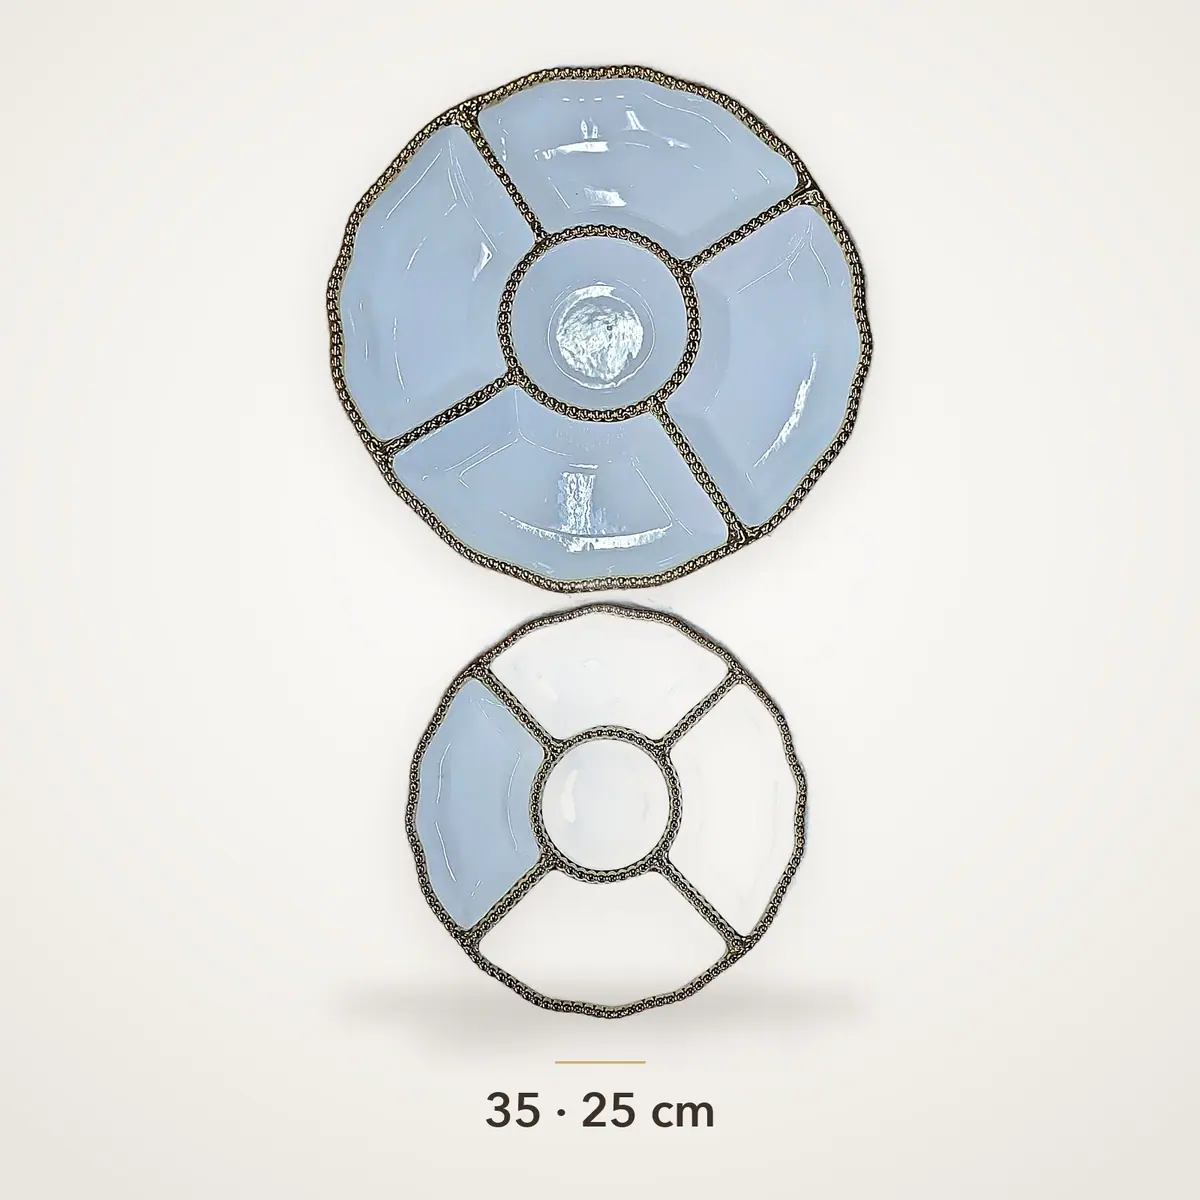
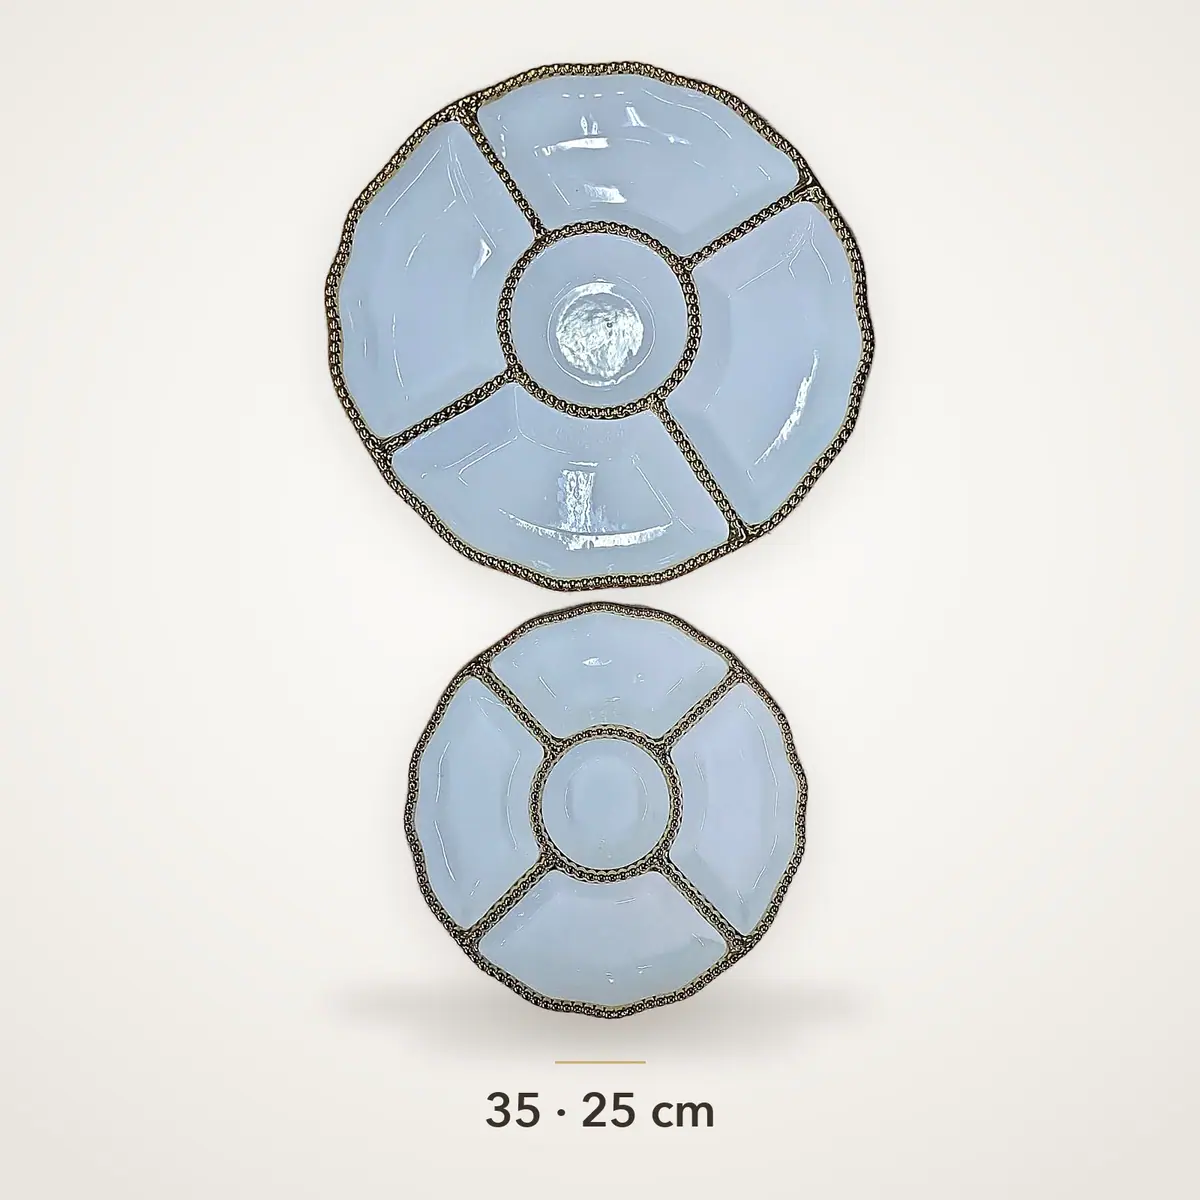
Restyle Zorof menu as buttons, rename categories, fix divided-dish photo
- Group tabs are now separate buttons with icons and a gold active state;
  category chips are more solid with a larger tap area.
- New Dari labels for three serving categories (with matching German),
  and آجیلخوری renamed to میوهدانی in product names.
- Re-cut photo of the round divided dishes (35 · 25 cm), which had
  see-through compartments.

diff --git a/data/zorof.ts b/data/zorof.ts
@@ -59,9 +59,9 @@ export const ZOROF_GROUPS: ZorofGroup[] = [
 
 // URL value for each category, e.g. /zorof?kategorie=tassen
 export const ZOROF_CATEGORIES: Record<ZorofCategory, { slug: string; label: Localized }> = {
-  PLATTERS: { slug: "servierplatten", label: { fa: "دیس و ظرف سرو", de: "Servierplatten" } },
-  SNACK: { slug: "snackschalen", label: { fa: "آجیلخوری و شیرینیخوری", de: "Snack- & Dessertschalen" } },
-  STANDS: { slug: "etageren", label: { fa: "طبقاتی و پایهدار", de: "Etageren & Ständer" } },
+  PLATTERS: { slug: "servierplatten", label: { fa: "غوریها و ظرفهای پذیرایی", de: "Servierplatten & Schalen" } },
+  SNACK: { slug: "snackschalen", label: { fa: "ظرفهای میوهٔ خشک و شیرینی", de: "Nuss- & Süßigkeitenschalen" } },
+  STANDS: { slug: "etageren", label: { fa: "ظرفهای چندطبقه و پایهدار", de: "Etageren & Schalen mit Fuß" } },
   TRAYS: { slug: "tabletts", label: { fa: "سینی", de: "Tabletts" } },
   DINNER_SETS: { slug: "tafelservice", label: { fa: "سرویس غذاخوری", de: "Tafelservice" } },
   PLATES: { slug: "teller", label: { fa: "بشقاب و کاسه", de: "Teller & Schalen" } },
@@ -163,9 +163,9 @@ export const zorofProducts: ZorofProduct[] = [
   product("bonbondose-gold-mit-deckel-124", 'SNACK', "Bonbondose gold mit Deckel", "شکلاتخوری طلایی دربدار", ["01.webp"]),
   product("teller-mit-glashaube-24-cm-125", 'SNACK', "Teller mit Glashaube 24 cm", "بشقاب با درب شیشهای ۲۴ سانت", ["01.webp"], ["24 cm"]),
   product("glasschalen-spiralform-37-19-cm-145", 'SNACK', "Glasschalen Spiralform 37/19 cm", "ظرف شیشهای مارپیچ ۳۷/۱۹ سانت", ["01.webp"], ["37 × 19 cm"]),
-  product("glas-snackschale-geteilt-gold-silber-150", 'SNACK', "Glas-Snackschale geteilt, Gold/Silber", "آجیلخوری شیشهای طلایی/نقرهای", ["01.webp", "02.webp"]),
-  product("snackplatte-5-fach-geteilt-155", 'SNACK', "Snackplatte 5-fach geteilt", "آجیلخوری پنج خانه", ["01.webp", "02.webp"]),
-  product("snackplatte-geteilt-31-cm-238", 'SNACK', "Snackplatte geteilt 31 cm", "آجیلخوری چند خانه ۳۱ سانت", ["01.webp"], ["31 cm"]),
+  product("glas-snackschale-geteilt-gold-silber-150", 'SNACK', "Glas-Snackschale geteilt, Gold/Silber", "میوهدانی شیشهای طلایی/نقرهای", ["01.webp", "02.webp"]),
+  product("snackplatte-5-fach-geteilt-155", 'SNACK', "Snackplatte 5-fach geteilt", "میوهدانی پنج خانه", ["01.webp", "02.webp"]),
+  product("snackplatte-geteilt-31-cm-238", 'SNACK', "Snackplatte geteilt 31 cm", "میوهدانی چند خانه ۳۱ سانت", ["01.webp"], ["31 cm"]),
   product("lotusschalen-mit-deckel-25-cm-160", 'SNACK', "Lotusschalen mit Deckel 25 cm", "ظرف دربدار نیلوفری ۲۵ سانت", ["01.webp"], ["25 cm"]),
   product("glas-bonbondosen-auf-fuss-162", 'SNACK', "Glas-Bonbondosen auf Fuß", "شکلاتخوری شیشهای پایهدار", ["01.webp"]),
   product("blattschalen-34-cm-165", 'SNACK', "Blattschalen 34 cm", "ظرف برگی ۳۴ سانت", ["01.webp", "02.webp"], ["34 cm"]),
@@ -173,13 +173,13 @@ export const zorofProducts: ZorofProduct[] = [
   product("glasdosen-duo-auf-goldstaender-173", 'SNACK', "Glasdosen-Duo auf Goldständer", "ست دو ظرف شیشهای پایه طلایی", ["01.webp"]),
   product("glasdosen-set-4-tlg-auf-goldstaender-185", 'SNACK', "Glasdosen-Set, 4-tlg. auf Goldständer", "ست چهار ظرف شیشهای پایه طلایی", ["01.webp", "02.webp"]),
   product("deckeldosen-set-auf-staender-175", 'SNACK', "Deckeldosen-Set auf Ständer", "ست ظرف دربدار پایهدار", ["01.webp"]),
-  product("glas-snackplatte-6-fach-mit-goldgriffen-202", 'SNACK', "Glas-Snackplatte 6-fach mit Goldgriffen", "آجیلخوری شیشهای شش خانه", ["01.webp"]),
-  product("snackplatten-geteilt-blattrand-206", 'SNACK', "Snackplatten geteilt, Blattrand", "آجیلخوری لبه برگی", ["01.webp"], ["31 · 26 · 21 cm"]),
+  product("glas-snackplatte-6-fach-mit-goldgriffen-202", 'SNACK', "Glas-Snackplatte 6-fach mit Goldgriffen", "میوهدانی شیشهای شش خانه", ["01.webp"]),
+  product("snackplatten-geteilt-blattrand-206", 'SNACK', "Snackplatten geteilt, Blattrand", "میوهدانی لبه برگی", ["01.webp"], ["31 · 26 · 21 cm"]),
   product("schalen-set-quadratisch-blattrand-142", 'SNACK', "Schalen-Set quadratisch, Blattrand", "ست کاسه مربع لبه برگی", ["01.webp"], ["26 · 15 · 12 cm"]),
-  product("snackschale-geteilt-31-cm-215", 'SNACK', "Snackschale geteilt 31 cm", "آجیلخوری ۳۱ سانت", ["01.webp"], ["31 cm"]),
-  product("glas-snackbox-3-fach-mit-deckel-243", 'SNACK', "Glas-Snackbox 3-fach mit Deckel", "آجیلخوری شیشهای سه خانه دربدار", ["01.webp", "02.webp"], ["31.5 × 9 × 5.5 cm"]),
-  product("snackplatte-rund-geteilt-32-cm-275", 'SNACK', "Snackplatte rund geteilt 32 cm", "آجیلخوری گرد ۳۲ سانت", ["01.webp"], ["32 cm"]),
-  product("snackplatte-rund-geteilt-goldkette-290", 'SNACK', "Snackplatte rund geteilt, Goldkette", "آجیلخوری گرد لبه زنجیری", ["01.webp"], ["35 · 25 cm"]),
+  product("snackschale-geteilt-31-cm-215", 'SNACK', "Snackschale geteilt 31 cm", "میوهدانی ۳۱ سانت", ["01.webp"], ["31 cm"]),
+  product("glas-snackbox-3-fach-mit-deckel-243", 'SNACK', "Glas-Snackbox 3-fach mit Deckel", "میوهدانی شیشهای سه خانه دربدار", ["01.webp", "02.webp"], ["31.5 × 9 × 5.5 cm"]),
+  product("snackplatte-rund-geteilt-32-cm-275", 'SNACK', "Snackplatte rund geteilt 32 cm", "میوهدانی گرد ۳۲ سانت", ["01.webp"], ["32 cm"]),
+  product("snackplatte-rund-geteilt-goldkette-290", 'SNACK', "Snackplatte rund geteilt, Goldkette", "میوهدانی گرد لبه زنجیری", ["01.webp"], ["35 · 25 cm"]),
   product("ovale-schalen-perlrand-34-24-cm-029", 'SNACK', "Ovale Schalen, Perlrand 34/24 cm", "کاسه بیضی لبه مرواریدی ۳۴/۲۴ سانت", ["01.webp"], ["34 · 24 cm"]),
   product("fussschalen-149", 'SNACK', "Fußschalen", "کاسه پایهدار", ["01.webp"]),
   product("fussschalen-30-cm-203", 'SNACK', "Fußschalen 30 cm", "کاسه پایهدار ۳۰ سانت", ["01.webp"], ["30 cm"]),

diff --git a/components/ZorofGrid.tsx b/components/ZorofGrid.tsx
@@ -3,6 +3,7 @@
 import { Suspense, useRef } from "react";
 import { useSearchParams } from "next/navigation";
 import { AnimatePresence, motion } from "framer-motion";
+import { Coffee, CookingPot, HandPlatter, Lamp, Luggage, Utensils, type LucideIcon } from "lucide-react";
 import {
   ZorofCategory,
   ZorofProduct,
@@ -18,6 +19,16 @@ import { useLang } from "@/lib/i18n";
 interface ZorofGridProps {
   onCardClick: (product: ZorofProduct) => void;
 }
+
+// One icon per group, so the group buttons are easy to tell apart at a glance.
+const GROUP_ICONS: Record<string, LucideIcon> = {
+  servieren: HandPlatter,
+  geschirr: Utensils,
+  tee: Coffee,
+  kueche: CookingPot,
+  deko: Lamp,
+  reise: Luggage,
+};
 
 function countFor(category: ZorofCategory) {
   return zorofProducts.filter((p) => p.category === category).length;
@@ -49,35 +60,33 @@ function ZorofBrowser({ onCardClick, active, onSelect }: BrowserProps) {
       {/* Sticky group + category menu */}
       <div className="sticky top-[64px] md:top-[56px] z-40 -mx-4 sm:-mx-6 px-4 sm:px-6 pt-4 pb-4 bg-dark/95 backdrop-blur-md border-b border-white/10 shadow-[0_12px_30px_rgba(0,0,0,0.45)]">
         <div className="max-w-4xl mx-auto">
-          {/* Groups: segmented switch (2 rows of 3 on phones) */}
-          <div className="grid grid-cols-3 sm:grid-cols-6 gap-1 p-1 rounded-2xl sm:rounded-full bg-white/[0.06] border border-white/10">
+          {/* Groups: one button each (2 rows of 3 on phones, one row on desktop) */}
+          <div className="grid grid-cols-3 sm:grid-cols-6 gap-2">
             {ZOROF_GROUPS.map((g) => {
               const isActive = g.id === activeGroup.id;
+              const Icon = GROUP_ICONS[g.id] ?? HandPlatter;
               return (
-                <button
+                <motion.button
                   key={g.id}
                   type="button"
+                  whileTap={{ scale: 0.95 }}
                   onClick={() => select(g.categories[0])}
                   aria-pressed={isActive}
-                  className={`relative rounded-full px-1 py-2.5 sm:py-3 text-[11px] sm:text-xs font-semibold tracking-[0.04em] sm:tracking-[0.08em] uppercase leading-tight transition-colors ${
-                    isActive ? "text-neutral-900" : "text-white/70 hover:text-white"
+                  className={`flex flex-col items-center justify-center gap-1.5 rounded-xl border px-1 py-2.5 sm:py-3 text-[11px] sm:text-xs font-semibold tracking-[0.04em] sm:tracking-[0.08em] uppercase leading-tight transition-colors ${
+                    isActive
+                      ? "border-gold-light bg-gradient-to-b from-gold-light to-gold text-on-gold shadow-[0_8px_24px_rgba(201,169,110,0.4)]"
+                      : "border-white/15 bg-white/[0.07] text-white/85 shadow-[inset_0_1px_0_rgba(255,255,255,0.08),0_2px_8px_rgba(0,0,0,0.35)] hover:border-gold/60 hover:bg-white/[0.12] hover:text-white"
                   }`}
                 >
-                  {isActive && (
-                    <motion.span
-                      layoutId="zorof-group-pill"
-                      transition={{ type: "spring", stiffness: 420, damping: 34 }}
-                      className="absolute inset-0 rounded-full bg-white shadow-[0_4px_18px_rgba(255,255,255,0.18)]"
-                    />
-                  )}
-                  <span className="relative">{g.label[lang]}</span>
-                </button>
+                  <Icon size={20} strokeWidth={1.75} className={isActive ? "" : "text-gold"} />
+                  <span>{g.label[lang]}</span>
+                </motion.button>
               );
             })}
           </div>
 
           {/* Categories in the active group: blue pills */}
-          <div className="mt-3 flex flex-wrap justify-center gap-2">
+          <div className="mt-3.5 flex flex-wrap justify-center gap-2">
             {activeGroup.categories.map((category) => {
               const isActive = category === active;
               return (
@@ -87,16 +96,16 @@ function ZorofBrowser({ onCardClick, active, onSelect }: BrowserProps) {
                   whileTap={{ scale: 0.95 }}
                   onClick={() => select(category)}
                   aria-pressed={isActive}
-                  className={`shrink-0 flex items-center gap-2 pl-3.5 sm:pl-4 pr-1.5 py-1.5 rounded-full border text-[11px] sm:text-[13px] font-semibold tracking-[0.06em] sm:tracking-[0.1em] uppercase transition-colors ${
+                  className={`shrink-0 flex items-center gap-2 min-h-10 ps-4 pe-1.5 py-1.5 rounded-full border text-xs sm:text-[13px] font-semibold tracking-[0.06em] sm:tracking-[0.1em] uppercase transition-colors ${
                     isActive
-                      ? "bg-blue-600 border-blue-500 text-white shadow-[0_6px_24px_rgba(37,99,235,0.55)]"
-                      : "bg-blue-600/15 border-blue-500/40 text-blue-100 hover:bg-blue-600/30"
+                      ? "bg-blue-600 border-blue-400 text-white shadow-[0_6px_24px_rgba(37,99,235,0.55)]"
+                      : "bg-[#141c33] border-blue-400/45 text-white/90 shadow-[inset_0_1px_0_rgba(255,255,255,0.07),0_2px_8px_rgba(0,0,0,0.35)] hover:bg-[#1b2748] hover:border-blue-400/80"
                   }`}
                 >
                   {ZOROF_CATEGORIES[category].label[lang]}
                   <span
-                    className={`min-w-6 h-6 px-1.5 rounded-full flex items-center justify-center text-[11px] tracking-normal ${
-                      isActive ? "bg-white text-blue-700" : "bg-blue-500/25 text-blue-100"
+                    className={`min-w-7 h-7 px-1.5 rounded-full flex items-center justify-center text-[11px] tracking-normal ${
+                      isActive ? "bg-white text-blue-700" : "bg-blue-500/30 text-blue-100"
                     }`}
                   >
                     {num(countFor(category))}
@@ -109,7 +118,7 @@ function ZorofBrowser({ onCardClick, active, onSelect }: BrowserProps) {
       </div>
 
       {/* Grid for the active category */}
-      <div ref={gridTopRef} className="scroll-mt-[200px] pt-8">
+      <div ref={gridTopRef} className="scroll-mt-[240px] sm:scroll-mt-[190px] pt-8">
         <AnimatePresence mode="wait">
           <motion.div
             key={active}
